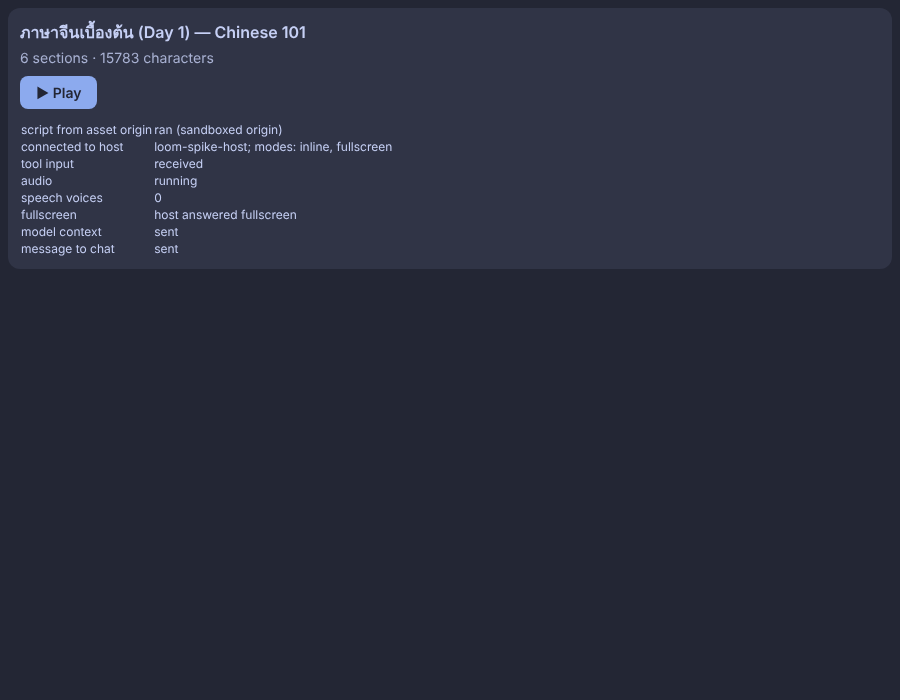
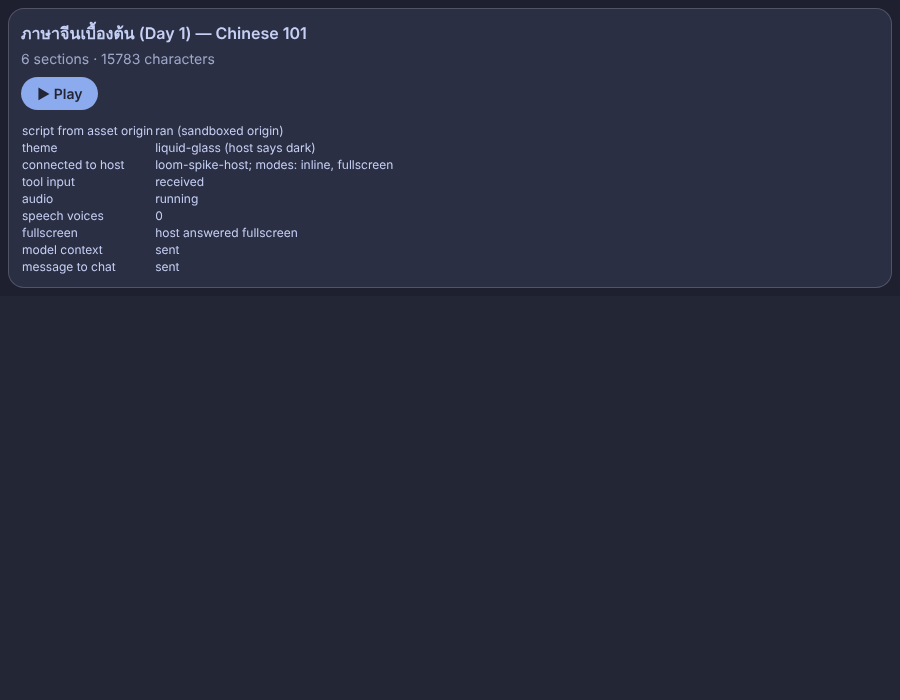
MCP App theme follows the chat's light or dark mode (decision 196)
The spike app maps the host context's theme to Liquid Glass or Liquid
Glass Light and switches when the host changes it; the test host gains
a light mode and a live switch, and the check covers both. Also fixes
the spike's static server sending headers before reading a file, and
lets the check use the system Chromium when the repo's Playwright pins
another version.

Claude-Session: https://claude.ai/code/session_01CRUpd6PDi6HUcKLmF4H8eT

Changed region(s): [[0.0, 0.18, 0.4356, 0.39], [0.0, 0.03, 0.3422, 0.15]]

diff --git a/spikes/mcp-app-shell/assets/app.js b/spikes/mcp-app-shell/assets/app.js
@@ -4,6 +4,21 @@
 import { App } from './ext-apps.js'
 
 const root = document.getElementById('root')
+
+// Decision 196: the app's default theme follows the chat app's light or dark mode (host context),
+// not the system: Liquid Glass when dark, Liquid Glass Light when light. Loom's own data-theme ids
+// are used, so the SDK's applyDocumentTheme (which writes data-theme="light"/"dark") is not.
+const HOST_THEMES = { dark: 'liquid-glass', light: 'liquid-glass-light' }
+const PALETTES = {
+  'liquid-glass': { card: 'rgba(48,52,70,.72)', text: '#c6d0f5', muted: 'rgba(198,208,245,.75)', accent: '#8caaee', onAccent: '#232634', page: '#1e2030' },
+  'liquid-glass-light': { card: 'rgba(255,255,255,.72)', text: '#4c4f69', muted: 'rgba(76,79,105,.75)', accent: '#1e66f5', onAccent: '#ffffff', page: '#eef1f8' },
+}
+function applyHostTheme(theme) {
+  const id = HOST_THEMES[theme] ?? (matchMedia('(prefers-color-scheme: light)').matches ? HOST_THEMES.light : HOST_THEMES.dark)
+  document.documentElement.dataset.theme = id
+  document.body.style.background = PALETTES[id].page
+  report('theme', `${id} (host says ${theme ?? 'nothing'})`)
+}
 const results = {}
 const report = (key, value) => {
   results[key] = value
@@ -14,11 +29,12 @@ let topic = null
 
 function render() {
   const rows = Object.entries(results).map(([k, v]) => `<tr><td>${k}</td><td>${v}</td></tr>`).join('')
+  const c = PALETTES[document.documentElement.dataset.theme] ?? PALETTES['liquid-glass']
   root.innerHTML = `
-    <div style="font:14px system-ui;padding:12px;border-radius:12px;background:#303446;color:#c6d0f5">
+    <div style="font:14px system-ui;padding:12px;border-radius:16px;background:${c.card};color:${c.text};backdrop-filter:blur(18px) saturate(1.6);border:1px solid rgba(255,255,255,.18)">
       <div style="font-weight:600;font-size:16px">${topic ? topic.title : 'Waiting for a topic…'}</div>
-      <div style="opacity:.8;margin:4px 0 10px">${topic ? `${topic.sections} sections · ${topic.chars} characters` : ''}</div>
-      <button id="play" style="font:600 14px system-ui;padding:8px 16px;border-radius:8px;border:0;background:#8caaee;color:#232634;cursor:pointer">▶ Play</button>
+      <div style="color:${c.muted};margin:4px 0 10px">${topic ? `${topic.sections} sections · ${topic.chars} characters` : ''}</div>
+      <button id="play" style="font:600 14px system-ui;padding:8px 16px;border-radius:999px;border:0;background:${c.accent};color:${c.onAccent};cursor:pointer">▶ Play</button>
       <table style="margin-top:12px;border-collapse:collapse;font-size:12px">${rows}</table>
     </div>`
   document.getElementById('play').onclick = play
@@ -69,6 +85,10 @@ app.ontoolinput = (params) => {
   report('tool input', 'received')
 }
 report('script from asset origin', `ran (${location.origin === 'null' ? 'sandboxed origin' : location.origin})`)
+app.onhostcontextchanged = (ctx) => {
+  if (ctx.theme) applyHostTheme(ctx.theme)
+}
 await app.connect()
 const ctx = app.getHostContext()
+applyHostTheme(ctx?.theme)
 report('connected to host', `${app.getHostVersion()?.name ?? '?'}; modes: ${(ctx?.availableDisplayModes ?? []).join(', ') || 'not given'}`)

diff --git a/spikes/mcp-app-shell/host/host.js b/spikes/mcp-app-shell/host/host.js
@@ -8,6 +8,8 @@ import { AppBridge, PostMessageTransport, getToolUiResourceUri } from '@modelcon
 const params = new URLSearchParams(location.search)
 const SERVER = params.get('server') ?? 'http://localhost:3001/mcp'
 const dropDomains = params.has('drop-domains')
+const hostTheme = params.get('theme') === 'light' ? 'light' : 'dark'
+document.body.classList.toggle('light', hostTheme === 'light')
 const chat = document.getElementById('chat')
 const say = (who, text) => {
   const div = document.createElement('div')
@@ -57,7 +59,7 @@ async function main() {
     client,
     { name: 'loom-spike-host', version: '0.0.1' },
     { openLinks: {}, serverTools: {}, logging: {}, updateModelContext: { text: {} }, message: { text: {} } },
-    { hostContext: { displayMode: 'inline', availableDisplayModes: ['inline', 'fullscreen'], theme: 'dark' } },
+    { hostContext: { displayMode: 'inline', availableDisplayModes: ['inline', 'fullscreen'], theme: hostTheme } },
   )
   bridge.oninitialized = async () => {
     await bridge.sendToolInput({ arguments: { oui } })
@@ -80,6 +82,11 @@ async function main() {
   }
   await bridge.connect(new PostMessageTransport(frame.contentWindow, frame.contentWindow))
   frame.srcdoc = html
+  // Switching the chat's mode while the app is open, as a host's own theme switch would.
+  window.setHostTheme = (theme) => {
+    document.body.classList.toggle('light', theme === 'light')
+    bridge.sendHostContextChange({ theme })
+  }
   window.__spike = { csp: cspFor(meta.csp), resourceDomains: meta.csp?.resourceDomains }
 }
 

diff --git a/spikes/mcp-app-shell/host/index.html b/spikes/mcp-app-shell/host/index.html
@@ -12,6 +12,10 @@
     .context { font-size: 12px; opacity: .7; }
     .error { background: #e78284; color: #232634; }
     iframe { width: 100%; height: 260px; border: 1px solid #51576d; border-radius: 10px; background: #232634; }
+    body.light { background: #eff1f5; color: #4c4f69; }
+    body.light .user { background: #ccd0da; }
+    body.light .model { background: #e6e9ef; }
+    body.light iframe { border-color: #bcc0cc; background: #eef1f8; }
     body.fullscreen iframe { position: fixed; inset: 0; width: 100vw; height: 100vh; border: 0; border-radius: 0; z-index: 10; }
   </style>
 </head>

diff --git a/grill-log-adaptive-learning.md b/grill-log-adaptive-learning.md
@@ -1,6 +1,6 @@
 # Grill Log — Adaptive Learning: Callbacks, Skill Maps & AI Chat Integration
 
-Status: **Concept — decisions 161–195 drafted, nothing implemented. Implementation slices and preparation list agreed; the owner is preparing accounts and settings. Implementation happens on branch `claude/loom-mcp-app`; slice 0 is done in a local test host and waits on the owner's check in a real host.**
+Status: **Concept — decisions 161–196 drafted, nothing implemented. Implementation slices and preparation list agreed; the owner is preparing accounts and settings. Implementation happens on branch `claude/loom-mcp-app`; slice 0 is done in a local test host and waits on the owner's check in a real host.**
 
 ## Goal
 
@@ -87,6 +87,7 @@ Numbering continues from [grill-log-learner-memory-review.md](grill-log-learner-
 | 193 | Local models | **Tutor locally, write with a stronger model.** Writing a 5–30 KB topic and calling tools correctly is hard for small local models; in Goose the learner may keep the local model for tutoring and give a stronger model (through an API key) the writing. |
 | 194 | The CDN library | **Deprecated, and no part of future plans.** The `loom-learning-sections` package (`libs/loom-sections.tsx`, served from jsDelivr) renders only the old OKF JSON, without OUI or Present. Nothing new builds on it: the MCP App loads from GitHub Pages (decision 182) and topics open in Viewer. It is removed in its own change, listed under *Retiring the CDN library*. |
 | 195 | When a server is needed | **GitHub Pages serves the app's files; it can never be the MCP server**, which must answer requests (stdio, or HTTP POST with JSON-RPC). **Chats on the learner's computer need no hosted server:** the local server runs there and loads the app from Pages. **Web and phone chats need an HTTP endpoint**, so slice 5 is built only when the owner wants one of them. Until then, for personal use, the local server can be reached from a web chat through a tunnel (Cloudflare Tunnel or ngrok), working while the computer is on. The local server can run straight from the GitHub repository (`npx github:<owner>/<repo>`), so publishing to npm is optional. |
+| 196 | The app's theme | **It follows the chat app's light or dark mode, not the system's: Liquid Glass when the chat is dark, Liquid Glass Light when it is light** (the same pair as Loom's own default). The app reads `theme` from the host context and switches when the host sends a context change. It sets Loom's own `data-theme` ids, so it does not use the SDK's `applyDocumentTheme` (which writes `data-theme="light"`/`"dark"`). With no theme from the host it falls back to the system scheme. The learner's own pick from Loom's theme menu lasts for the session only, since storage inside a chat's sandboxed frame cannot be relied on. The glass blurs only the app's own content: it cannot blur the chat behind the frame. |
 
 **Hosts, in order of trying** (Oct 2026; check the official MCP Apps host list before relying on one):
 
@@ -251,6 +252,7 @@ topic (`chinese101-day1`):
 | Fullscreen on Play | ✅ the host switches to fullscreen |
 | Audio after the click | ✅ `AudioContext` running; headless Chromium has no speech voices (expected) |
 | Message into the chat, update the model's context | ✅ both delivered (decisions 190, 191) |
+| Theme follows the chat's light or dark mode, also when it switches (decision 196) | ✅ Liquid Glass when dark, Liquid Glass Light when light |
 | Same server over stdio | ✅ tool list, call, and the `ui://` resource with its CSP |
 
 The code follows decisions 182 and 189 so far. **Still open:** the same checks in the owner's real

diff --git a/spikes/mcp-app-shell/README.md b/spikes/mcp-app-shell/README.md
@@ -45,10 +45,11 @@ npm run check         # screenshots and the result table
 | Audio after the click | ✅ `AudioContext` running | — |
 | Speech voices | ⚠ 0 voices in headless Chromium (expected; real browsers have them) | — |
 | Message into the chat, update the model's context | ✅ both delivered | — |
+| Theme follows the chat's mode (`?theme=light`, and a switch while open) | ✅ Liquid Glass / Liquid Glass Light | — |
 | Same server over stdio: tool list, call, `ui://` resource with its CSP | ✅ | — |
 
 Screenshots: `results/declared-inline.png`, `results/declared-after-play.png`,
-`results/undeclared-inline.png`.
+`results/light-inline.png`, `results/switch-to-light.png`, `results/undeclared-inline.png`.
 
 **Not yet known:** the same checks in real hosts (Goose, Claude Desktop, Claude web), each with
 its own sandbox, and loading from `https://chanatipsaetia.github.io` instead of localhost.
